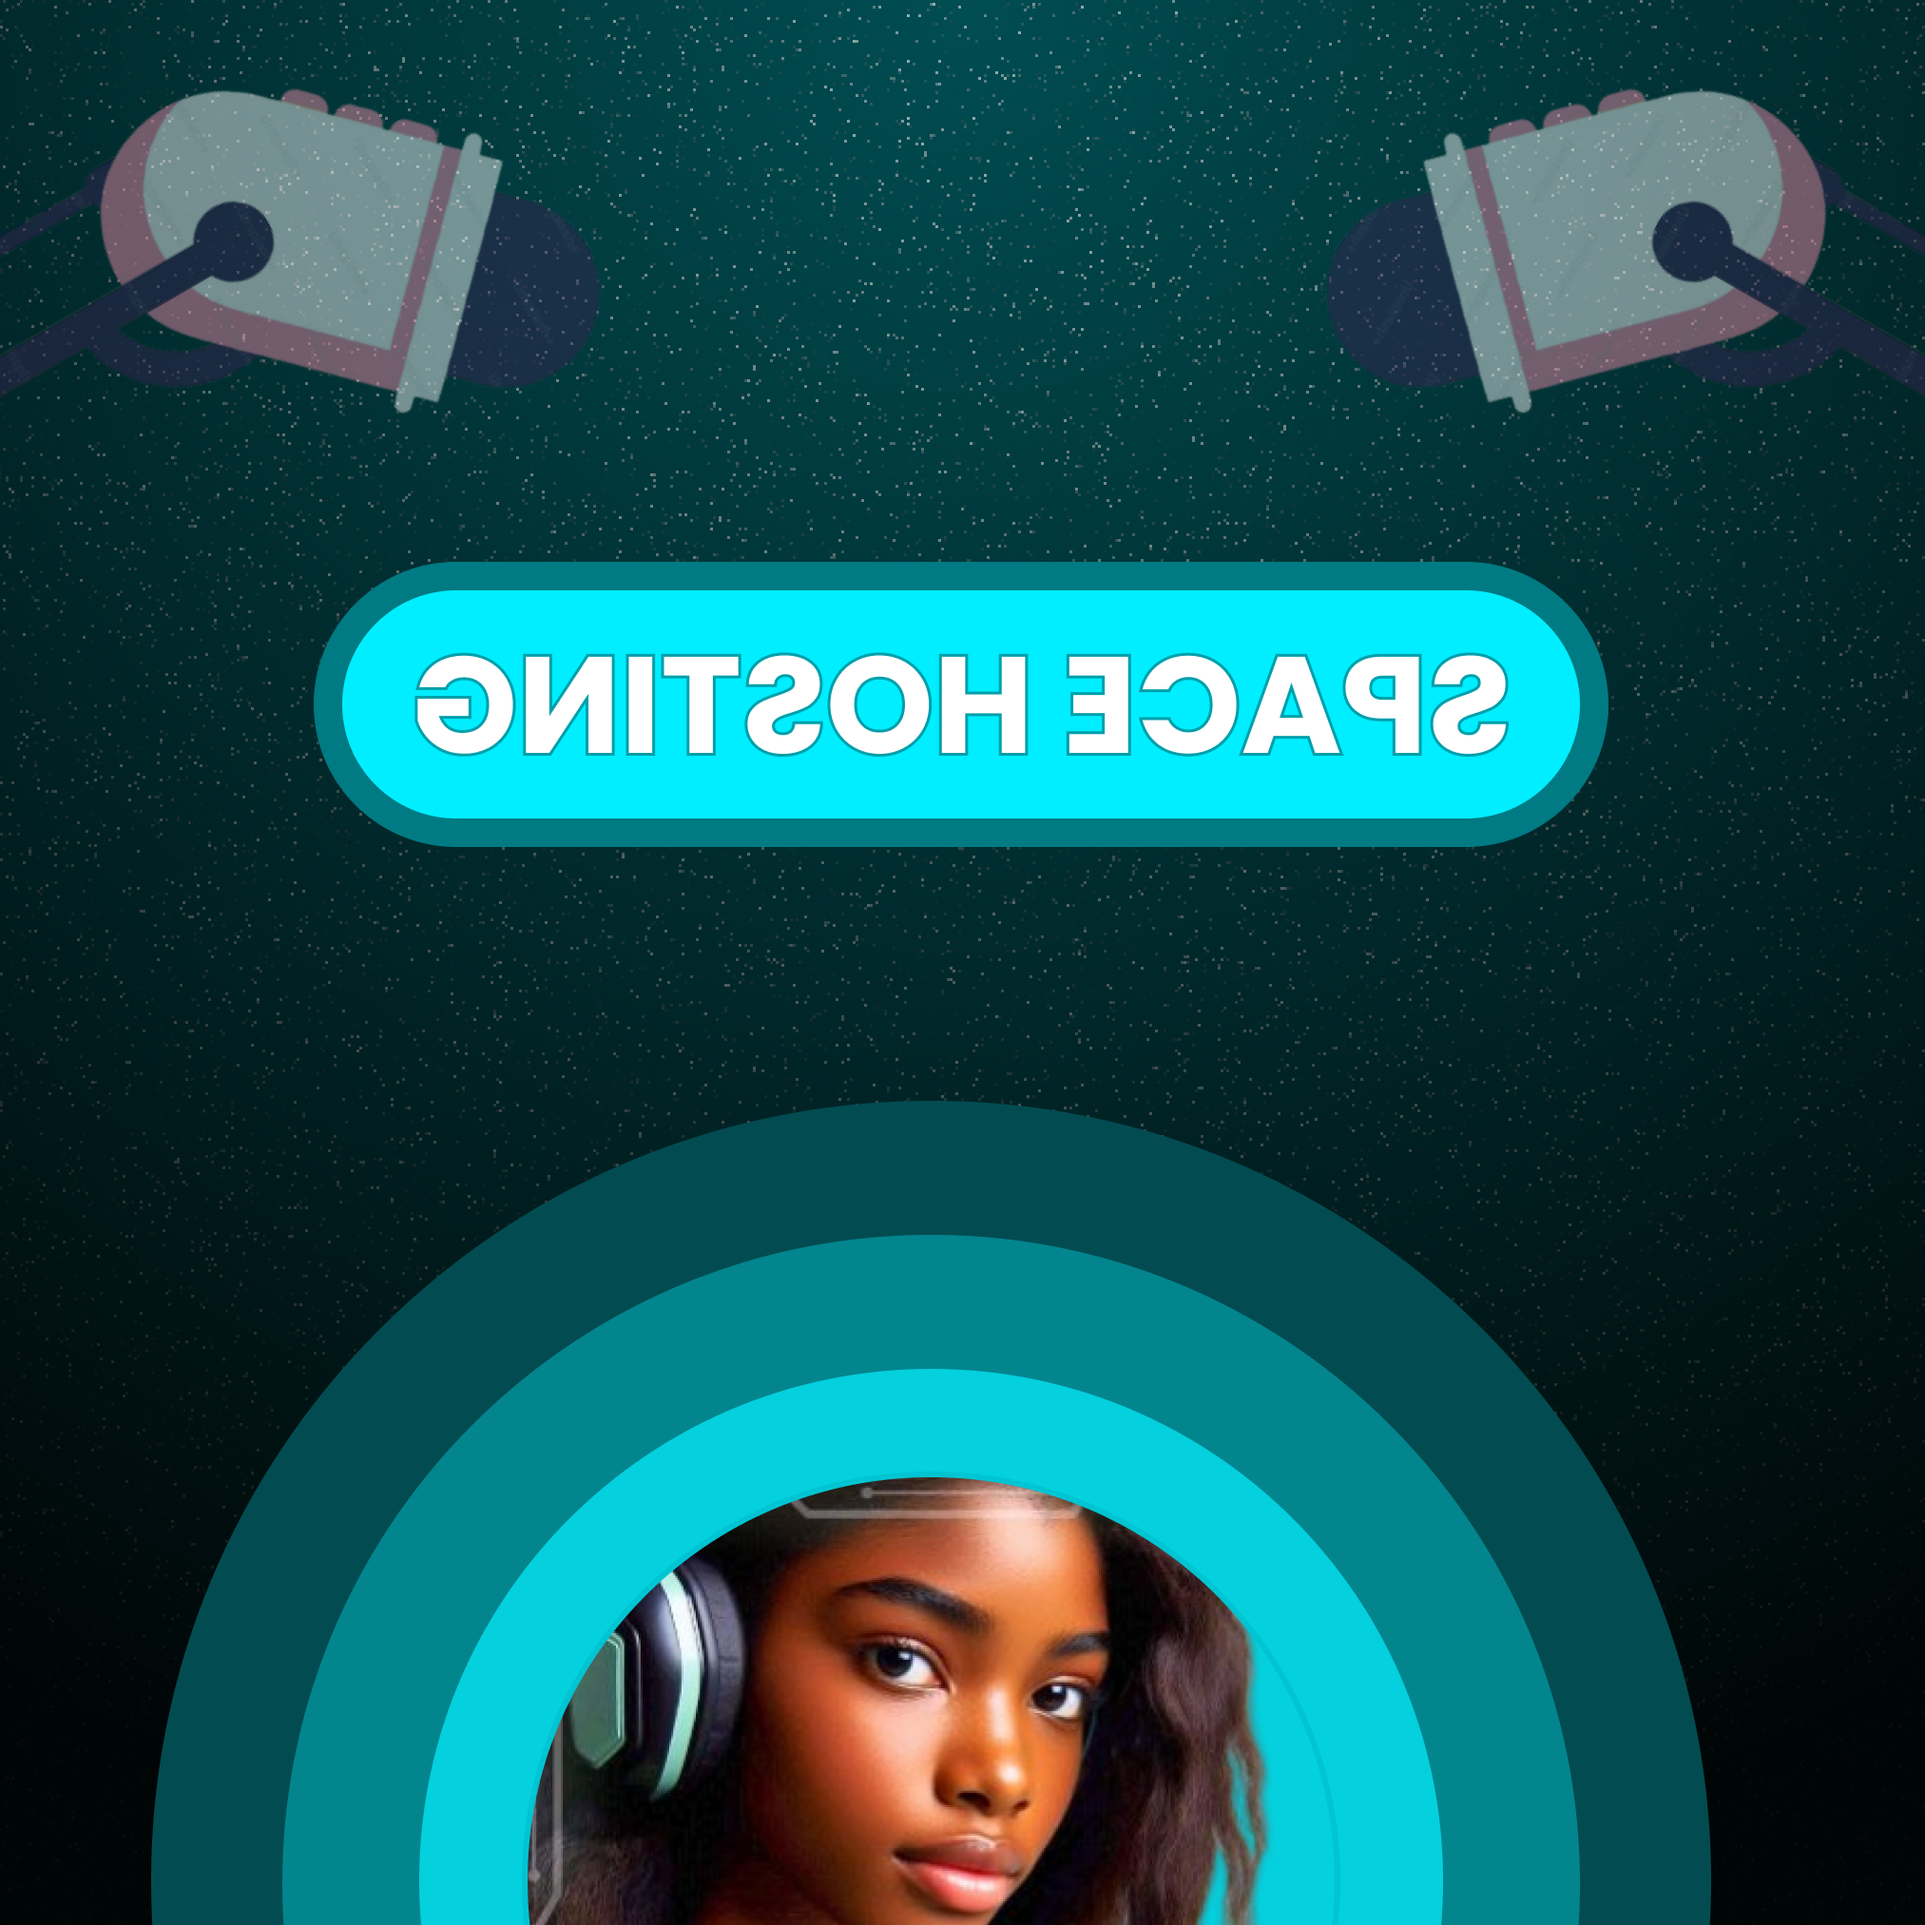
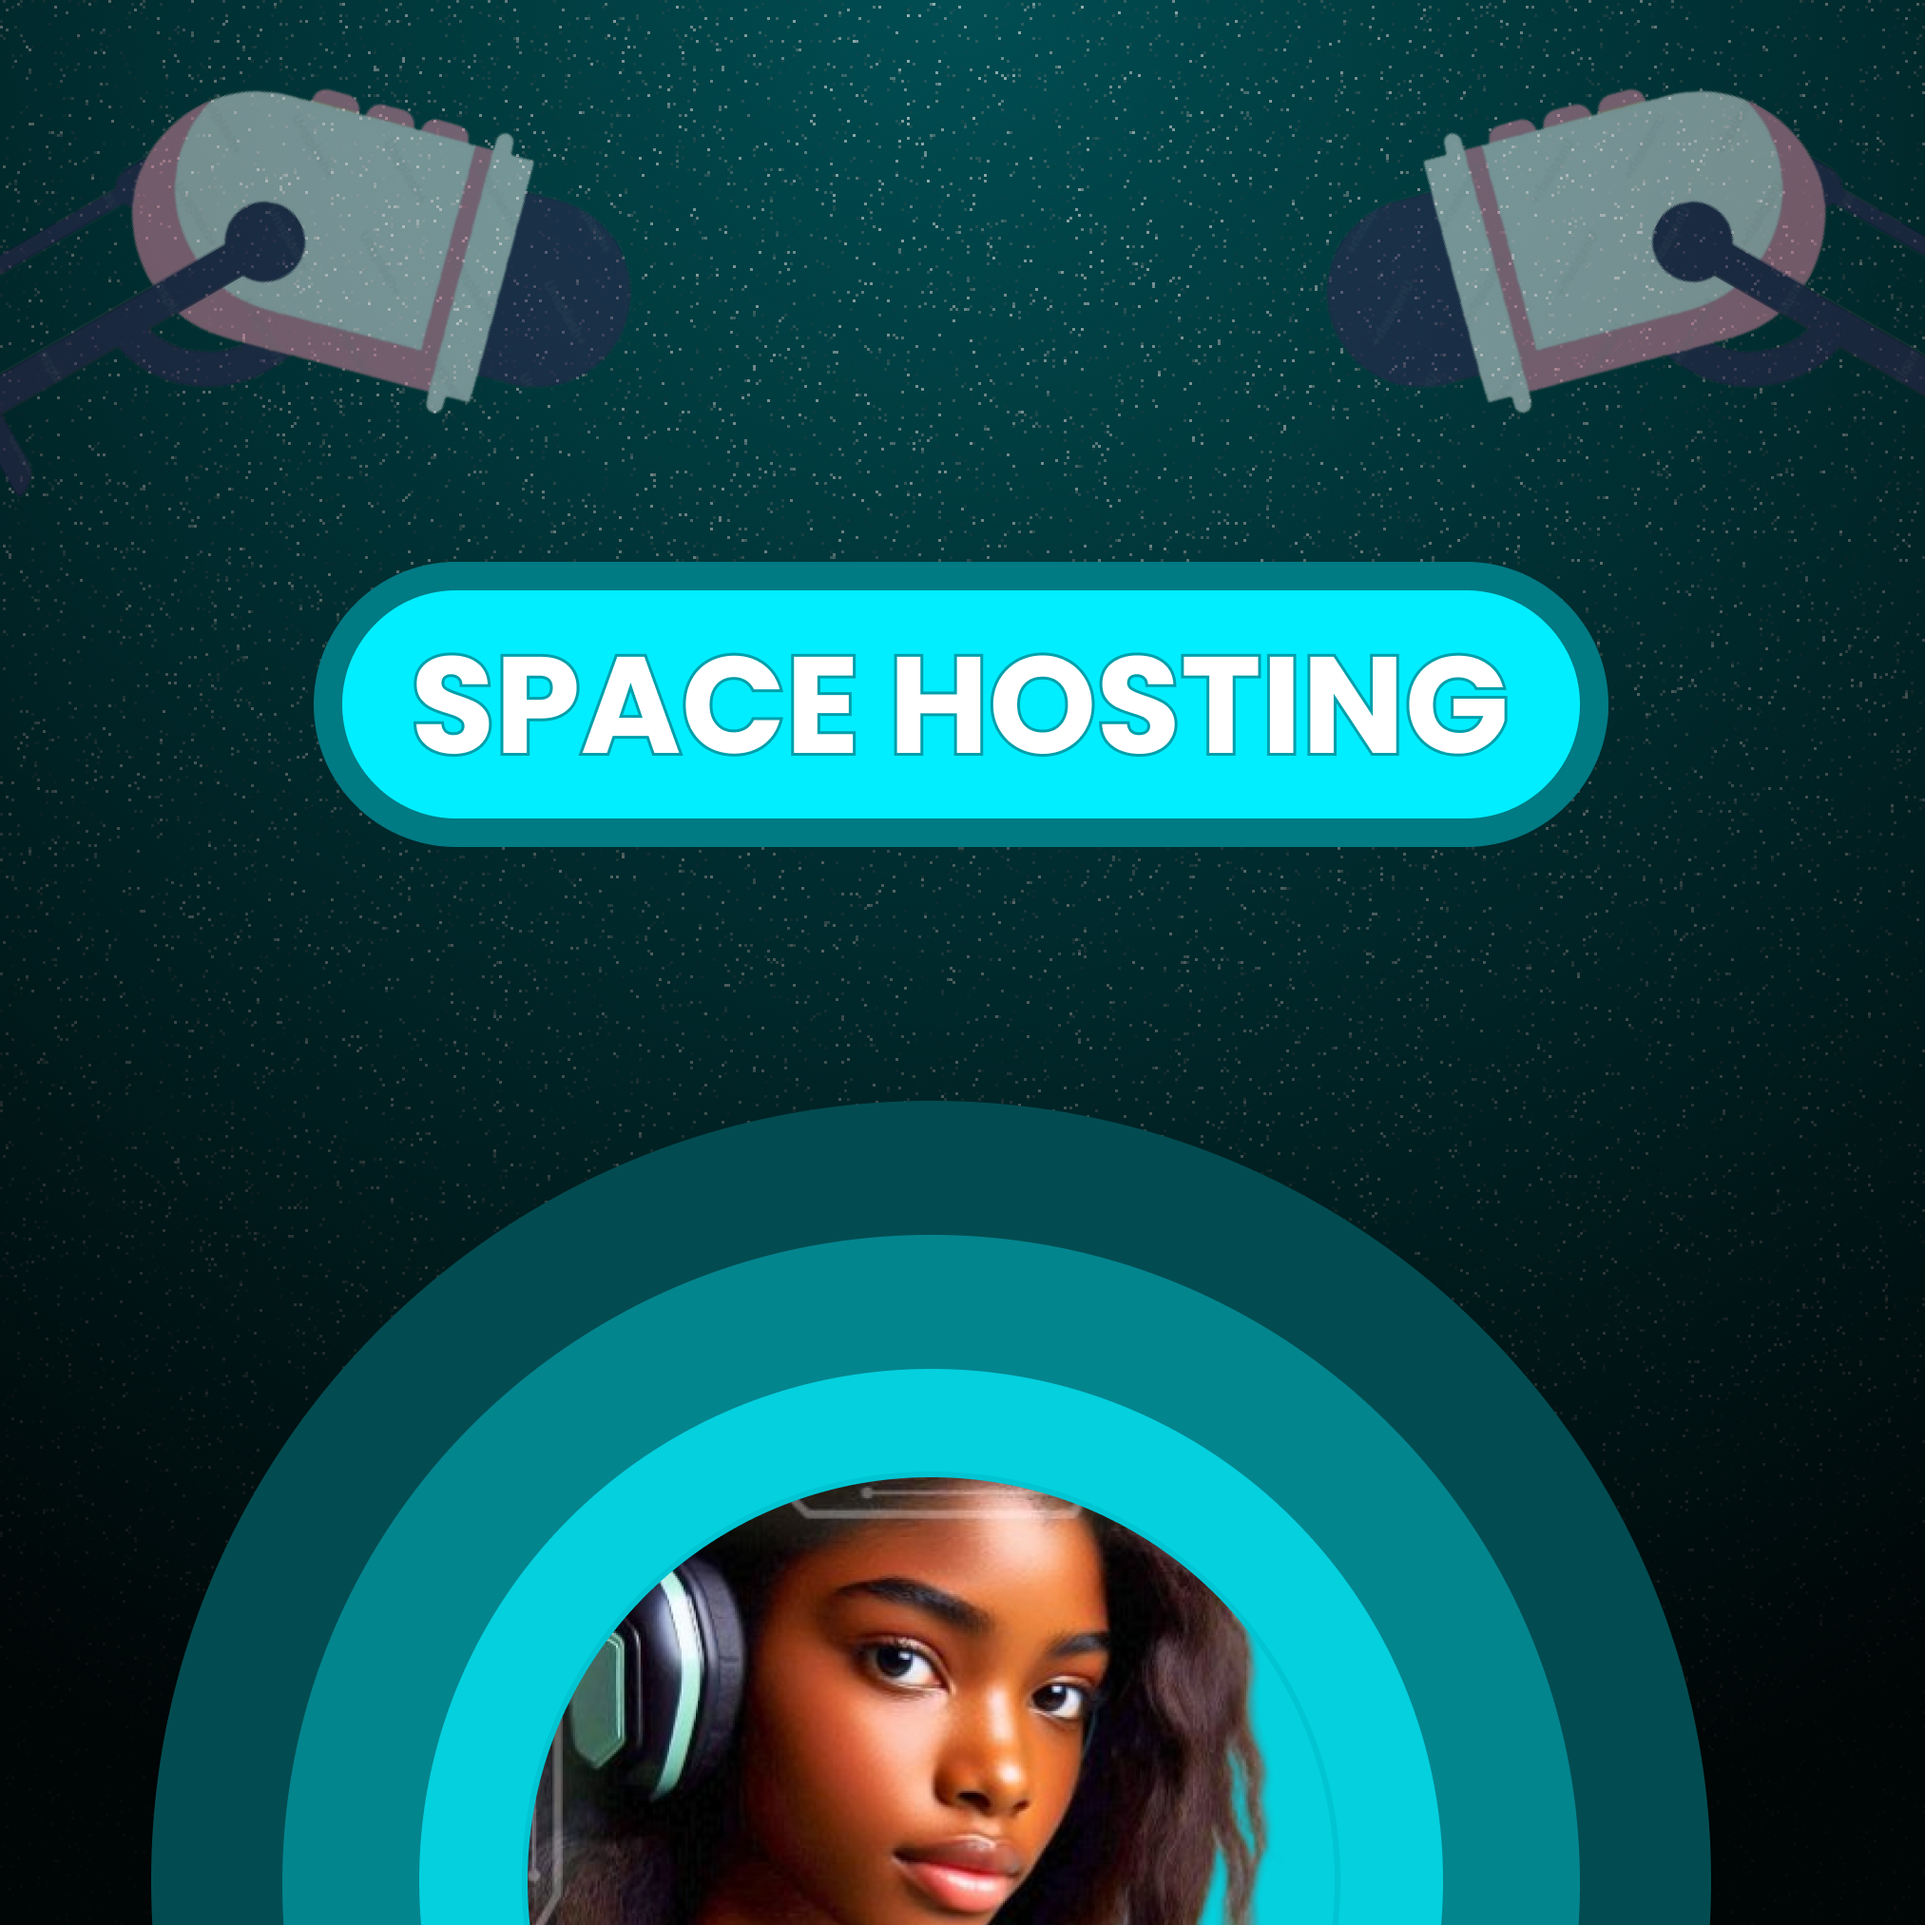
adding

Changed region(s): [[0.0, 0.0311, 0.3422, 0.2489], [0.2178, 0.3422, 0.8089, 0.4044]]

diff --git a/assests/index.html b/assests/index.html
@@ -132,9 +132,9 @@
             </div>
 
             <div class="portfolio-box">
-                <img src="./images/portfolio4.jpg" alt="">
+                <img src="./images/hiki space host.png" alt="">
                 <div class="portfolio-layer">
-                    <h4>SPACE HOSTING</h4>
+                    <h4></h4>
                     <p>META BALANCE  </p>
                     <a href="https://x.com/Hikmahcodes/status/1901347988678529070"><i class='bx bx-link-external'></i></a>
                 </div>
